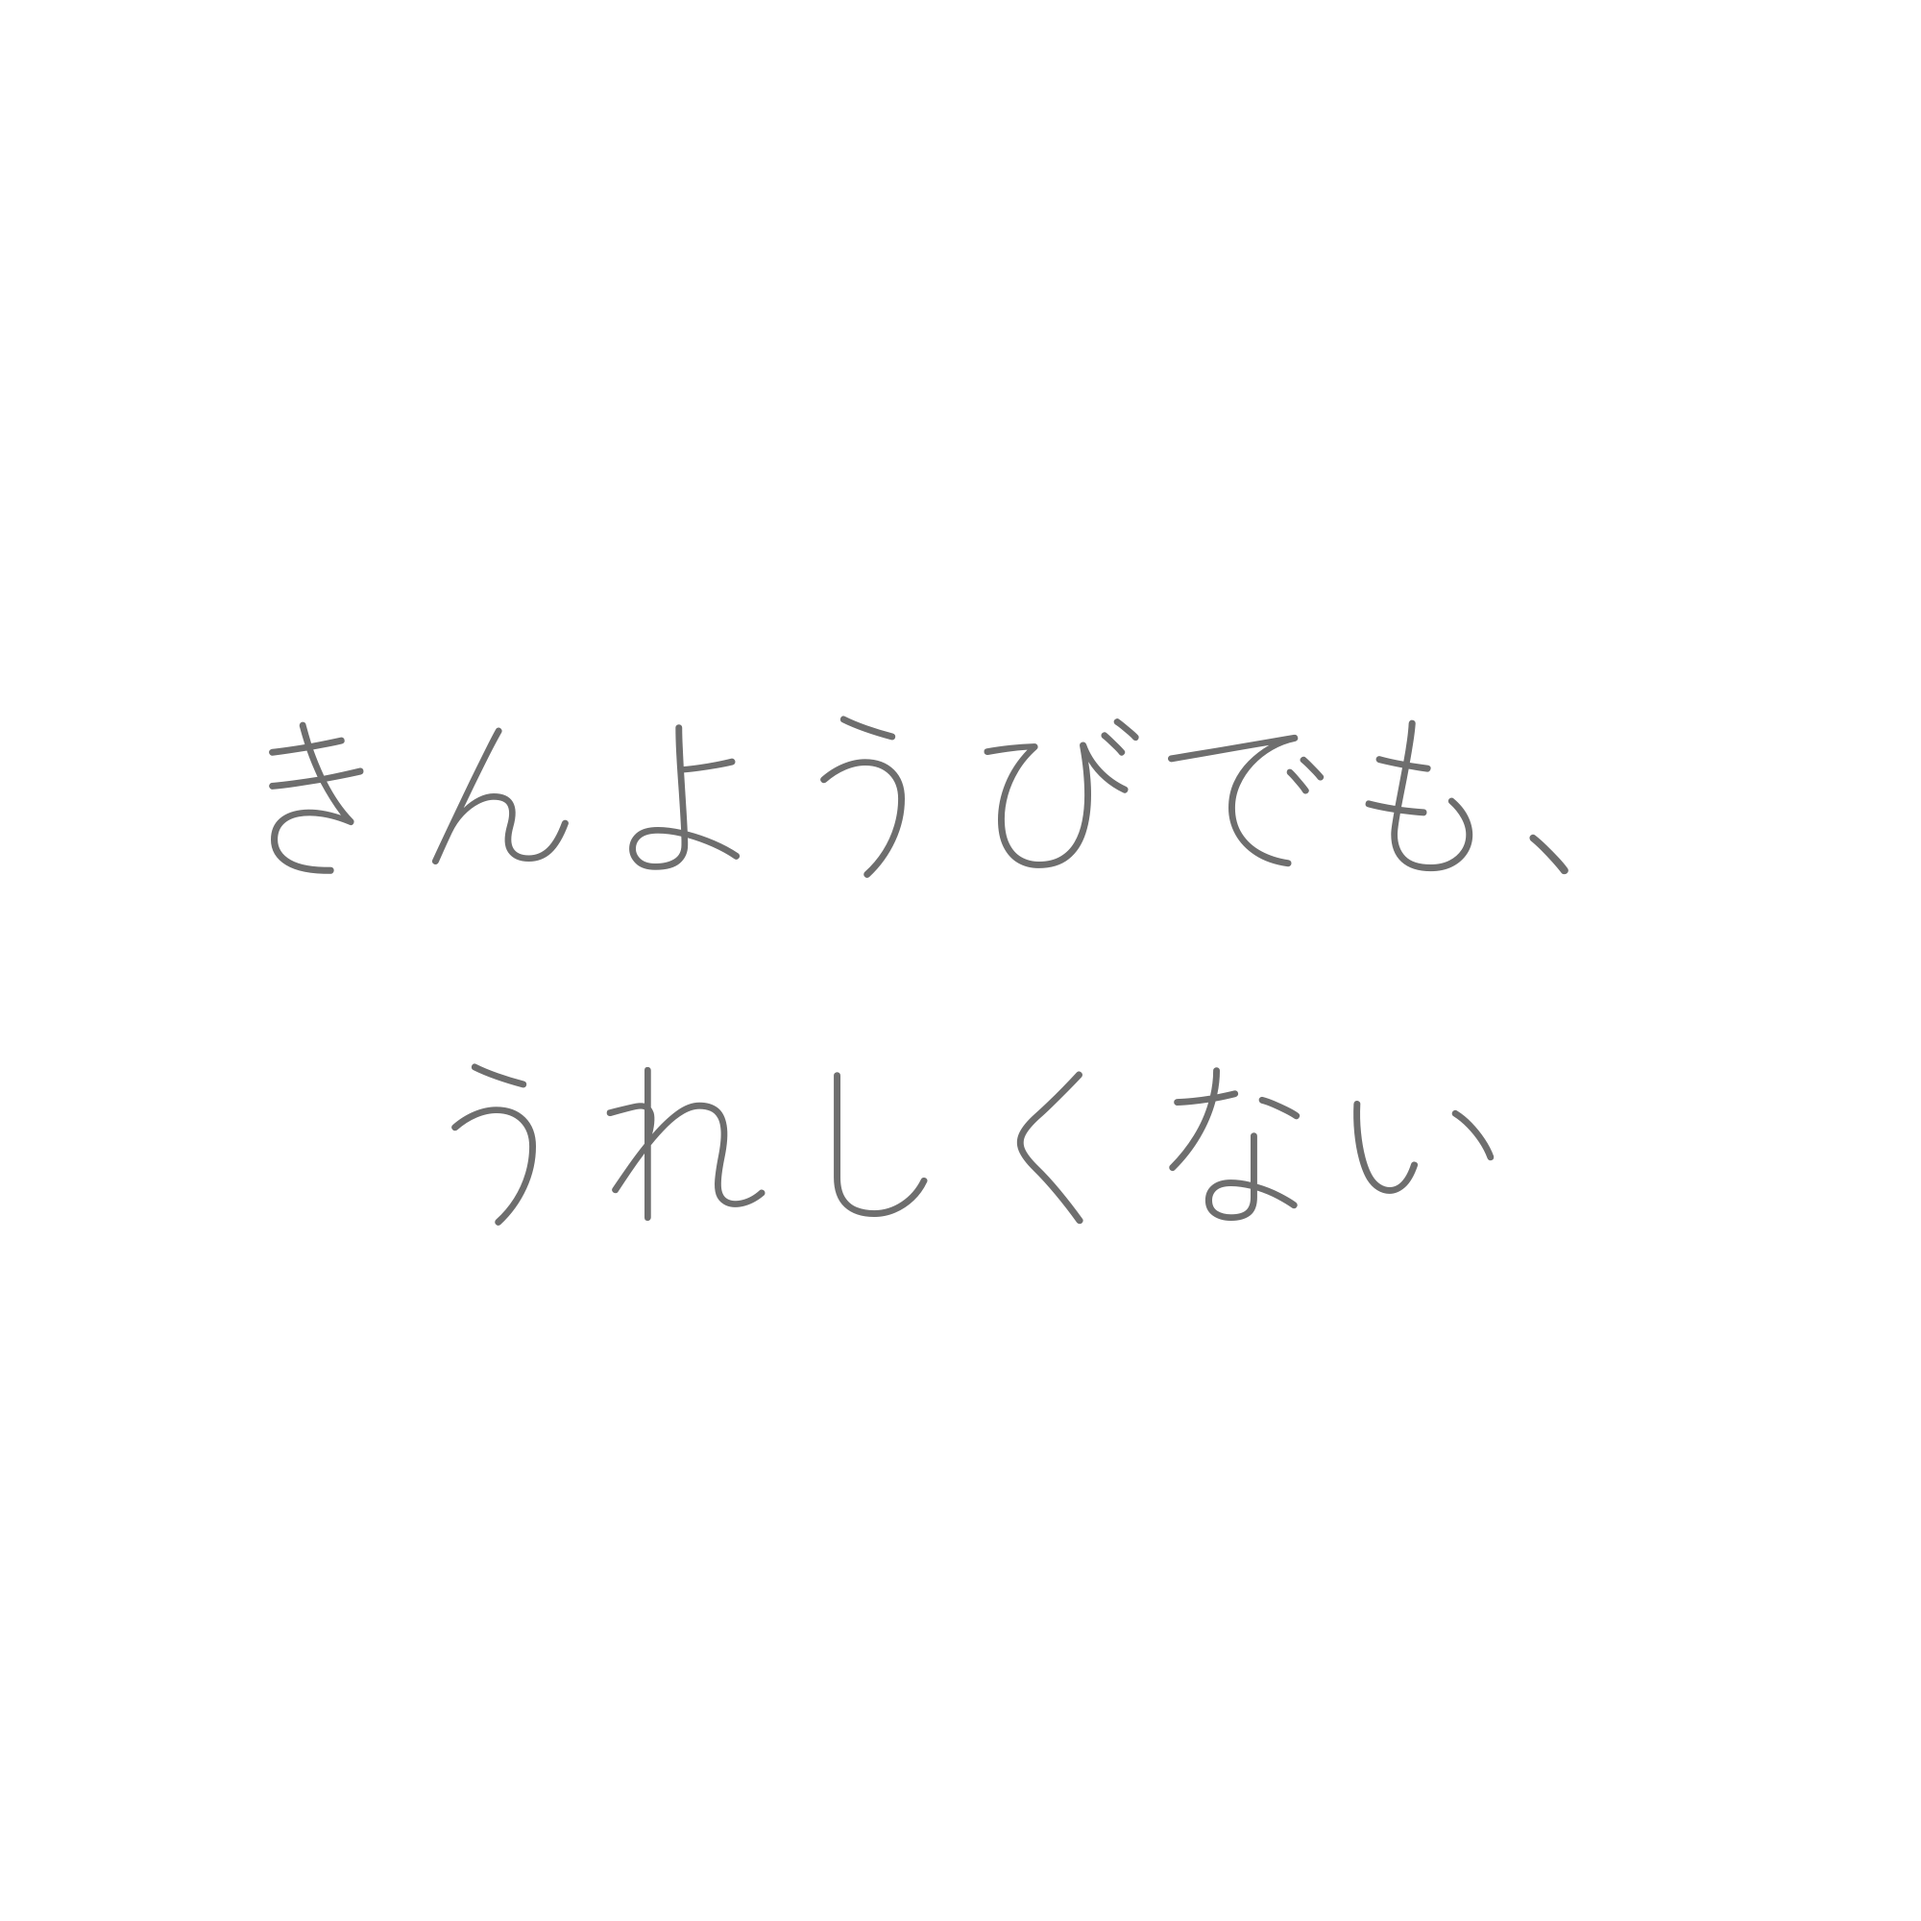
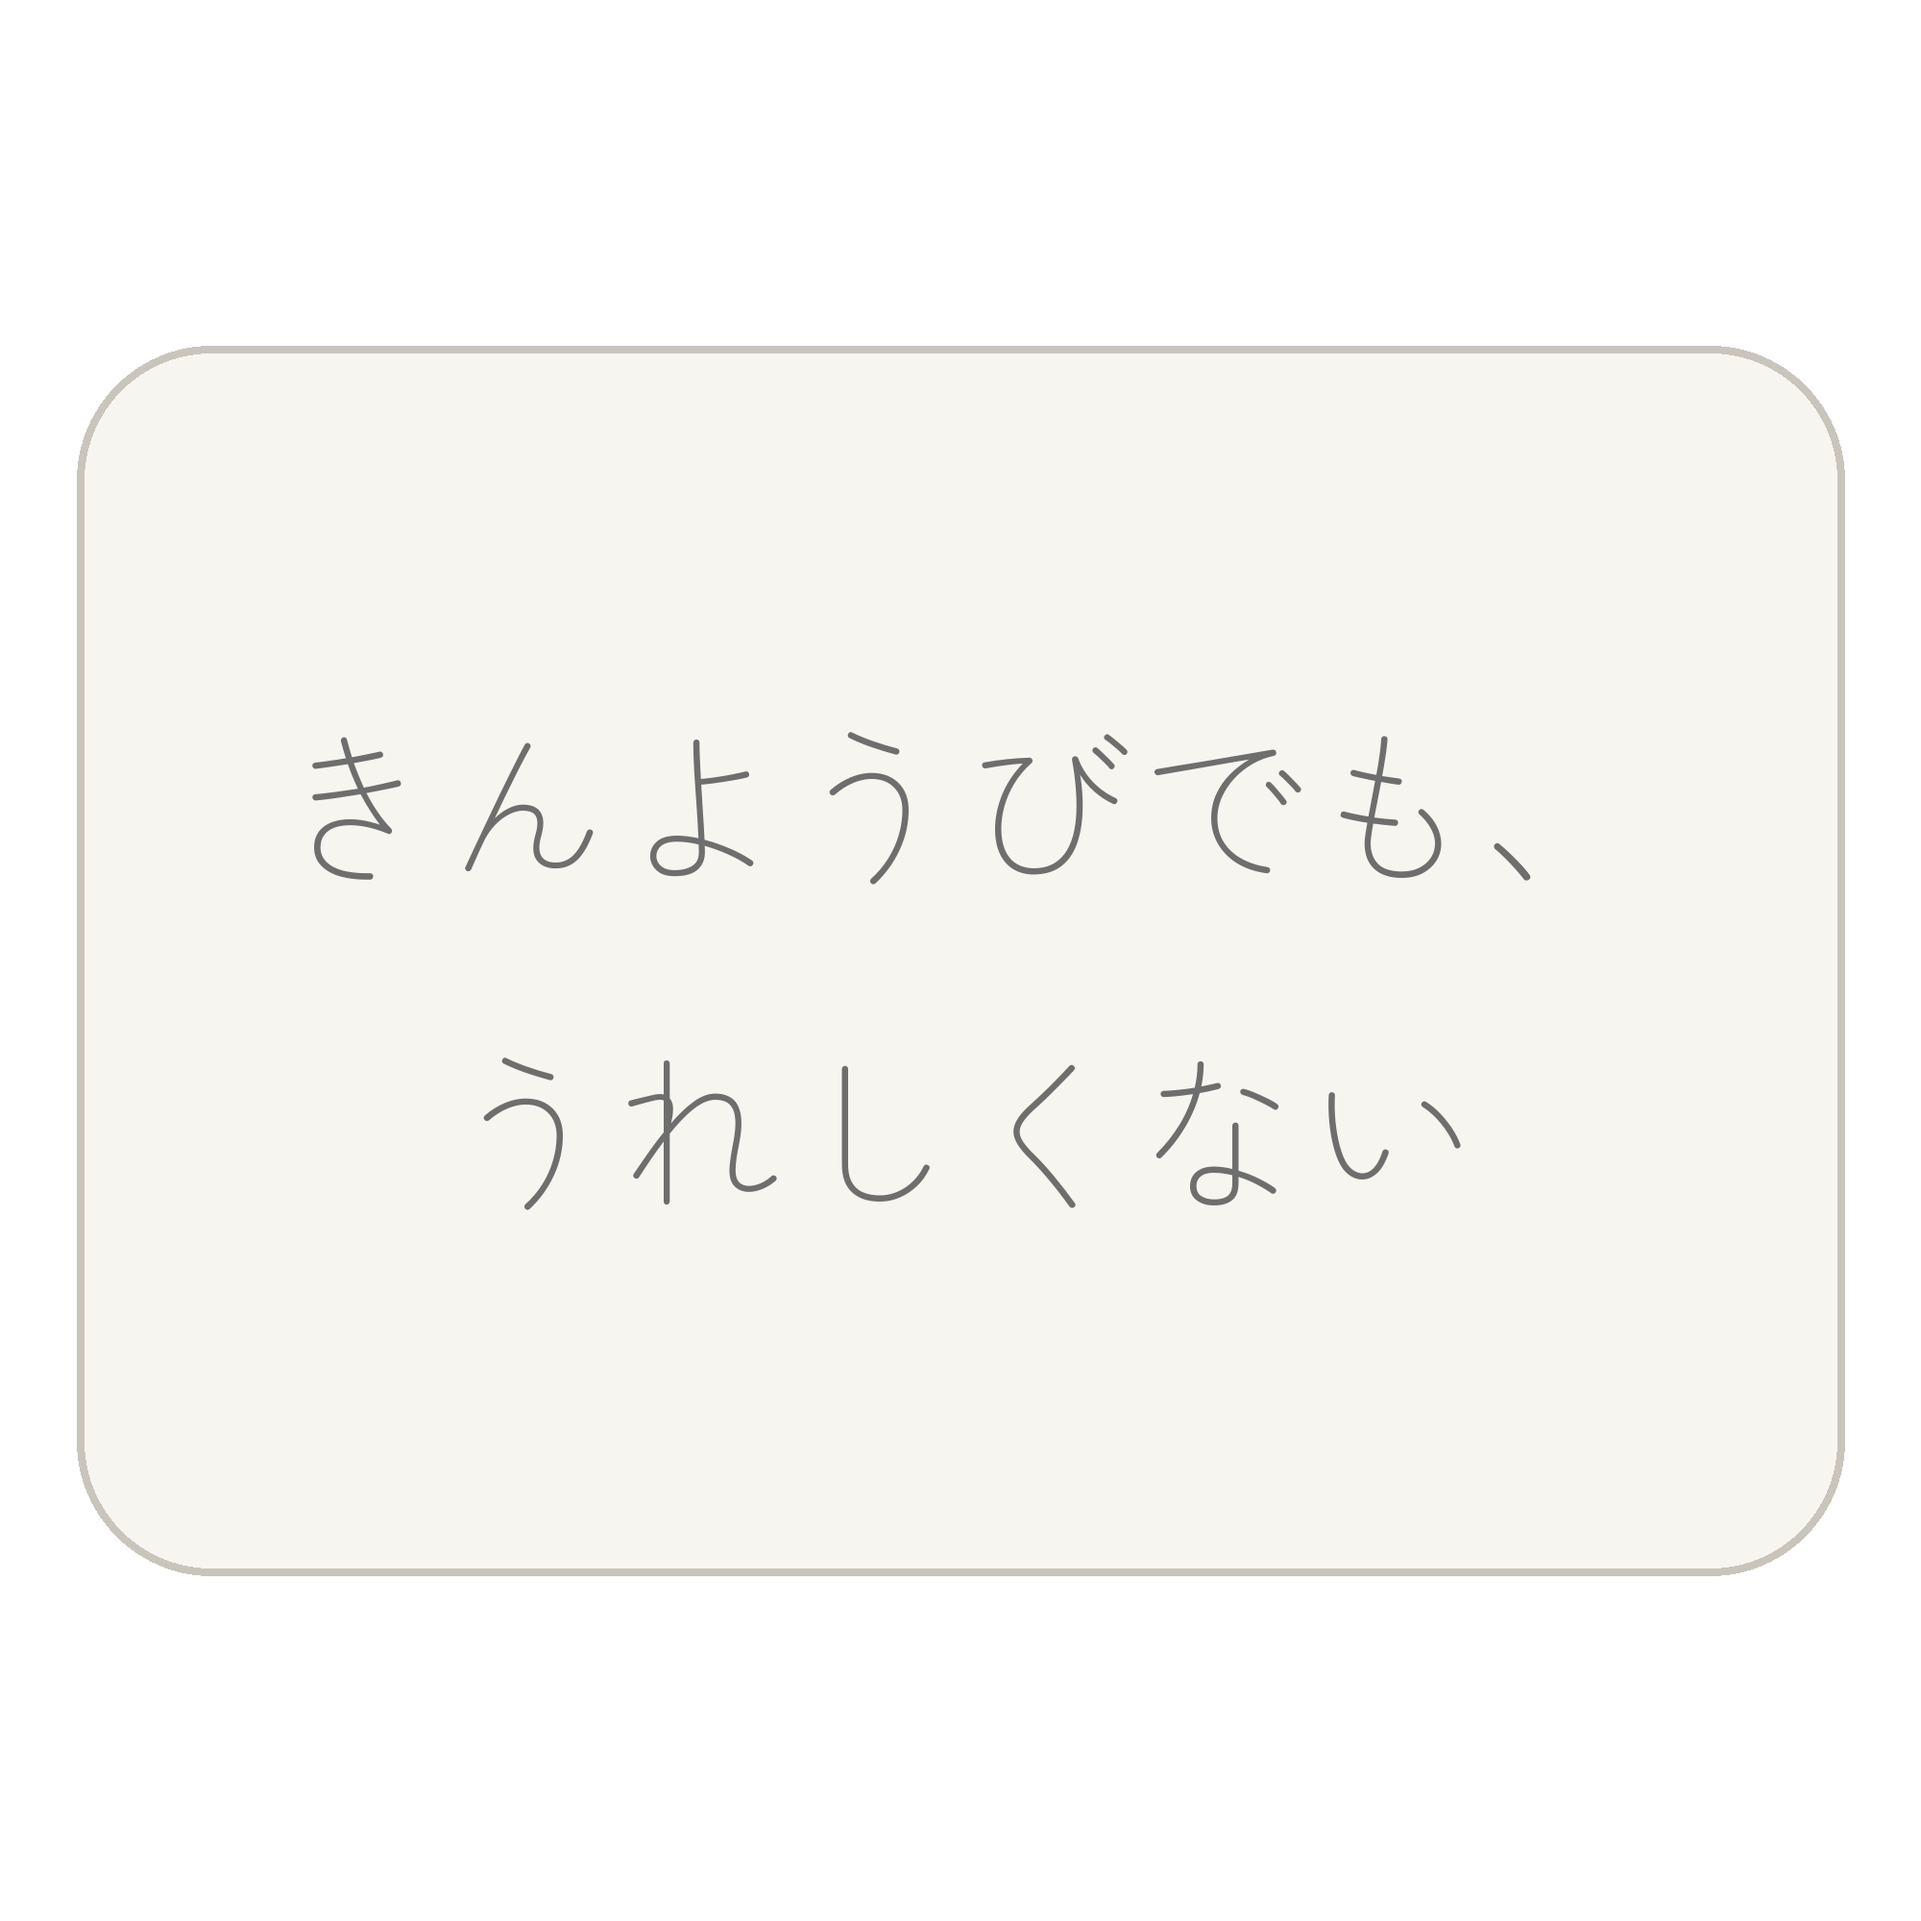
ステッカーに角丸の台座を追加して1枚もの形状に変更
文字だけの透過データだとカットラインが文字の輪郭をなぞり、
小さいパーツが破片になって剥がれやすいため、全種共通の
生成り色・角丸長方形のベースを敷いた。

Claude-Session: https://claude.ai/code/session_01Hth1TDsqnV3mvtVRGZwAwr

diff --git a/stickers/generate.py b/stickers/generate.py
@@ -20,10 +20,18 @@ FONT_URL = (
 FONT_CACHE = os.path.join(os.path.dirname(__file__), "ZenMaruGothic-Light.ttf")
 
 CANVAS = 2000          # SUZURI推奨の大判サイズ
-MAX_LINE_WIDTH = 1560  # 文字の最大幅(左右に余白を残す)
-MAX_FONT_SIZE = 340    # 短い行が間延びしないよう上限を設ける
+MAX_LINE_WIDTH = 1460  # 文字の最大幅(台座の内側に収める)
+MAX_FONT_SIZE = 300    # 短い行が間延びしないよう上限を設ける
 LINE_SPACING = 1.30    # 行間(脱力感を出すためやや広め)
 COLOR = (110, 110, 110, 255)  # グレー1色。色数を増やすと脱力が死ぬ
+
+# 台座: 文字だけの切り抜きだと小さいパーツが破片になるため、
+# 全種共通の角丸ベースを敷いて1枚もののステッカーにする
+BASE_SIZE = (1840, 1280)       # 横長の角丸長方形(シリーズ共通)
+BASE_RADIUS = 140
+BASE_FILL = (247, 245, 240, 255)    # 生成り(真っ白より脱力する)
+BASE_BORDER = (201, 197, 188, 255)  # うっすら枠線
+BASE_BORDER_W = 8
 
 STICKERS = [
     ("01-kaettemo", "かえっても、かえりたい"),
@@ -68,6 +76,16 @@ def render(slug, text):
     img = Image.new("RGBA", (CANVAS, CANVAS), (0, 0, 0, 0))
     draw = ImageDraw.Draw(img)
 
+    bw, bh = BASE_SIZE
+    bx, by = (CANVAS - bw) // 2, (CANVAS - bh) // 2
+    draw.rounded_rectangle(
+        (bx, by, bx + bw, by + bh),
+        radius=BASE_RADIUS,
+        fill=BASE_FILL,
+        outline=BASE_BORDER,
+        width=BASE_BORDER_W,
+    )
+
     ascent, descent = font.getmetrics()
     line_height = int((ascent + descent) * LINE_SPACING)
     total_height = line_height * (len(lines) - 1) + ascent + descent
@@ -90,7 +108,8 @@ def preview_sheet():
     cell = 640
     cols = 3
     rows = (len(STICKERS) + cols - 1) // cols
-    sheet = Image.new("RGB", (cell * cols, cell * rows), (245, 244, 240))
+    # ステッカーの輪郭(カットライン)が見えるよう、台座より暗い背景にする
+    sheet = Image.new("RGB", (cell * cols, cell * rows), (206, 203, 197))
     out_dir = os.path.join(os.path.dirname(__file__), "png")
     for i, (slug, _) in enumerate(STICKERS):
         img = Image.open(os.path.join(out_dir, f"{slug}.png")).resize(
